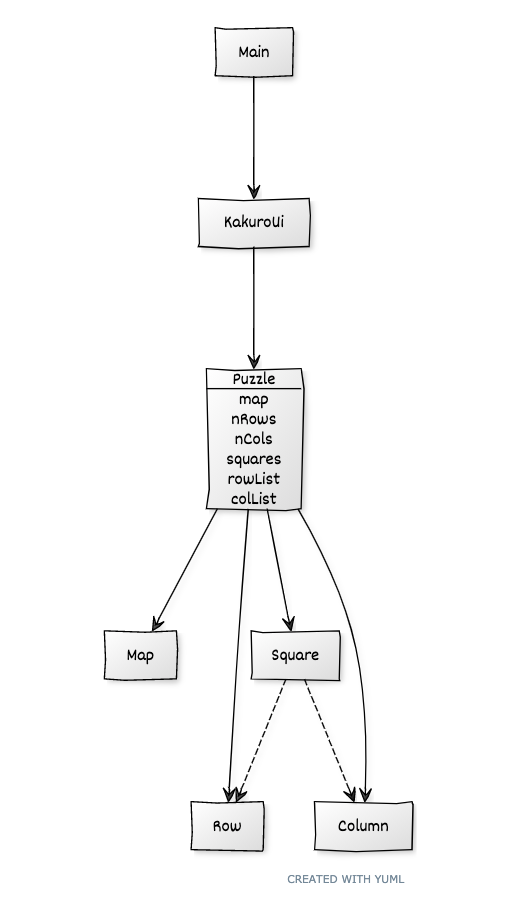
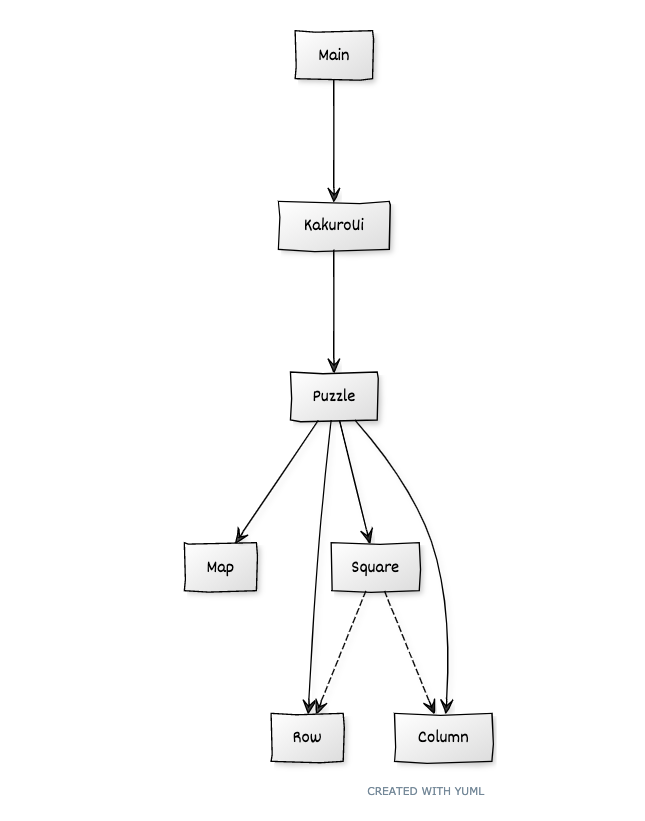
Arkkitehtuurin kuvaus lisätty

Changed region(s): [[0.1825, 0.0305, 0.7909, 1.0]]

diff --git a/dokumentaatio/arkkitehtuuri.md b/dokumentaatio/arkkitehtuuri.md
@@ -13,12 +13,10 @@ Pakkaus _todoapp.ui_ sisältää JavaFX:llä toteutetun käyttöliittymän _todo
 
 Käyttöliittymä on rakennettu ohjelmallisesti luokassa [kakuro.ui.KakuroUi] .  Käyttöliittymä on toistaiseksi tekstikäyttöliittymä, mutta toteutetaan jatkossa JavaFX-kirjaston avulla graafisena käyttöliittymänä.
 
-Käyttöliittymä on pyritty eristämään täysin sovelluslogiikasta, se ainoastaan kutsuu sopivin parametrein sovelluslogiikan toteuttavan _Puzzle_-luokan olion _puzzle_ metodeja.
+Käyttöliittymä on pyritty eristämään täysin sovelluslogiikasta, se ainoastaan kutsuu sovelluslogiikan toteuttavan _Puzzle_-luokan olion _puzzle_ metodeja.
 
 ## Sovelluslogiikka
 
-Sovelluksen loogisen datamallin muodostavat luokat _Puzzle_, _Square_, _Row_, _Column_ ja _Map_.  
+Sovelluksen loogisen datamallin muodostavat luokat _Puzzle_, _Square_, _Row_, _Column_ ja _Map_.
 
 <img src="class.png" width="750">
-
-Käyttöliittymästä kutsutaan vain _Puzzle_-luokan metodeja.  _Puzzle_-luokasta kutsutaan _Map_- ja _Square_-luokan metodeja.  _Square_-luokasta kutsutaan _Row_- ja _Column_-luokan metodeja.
